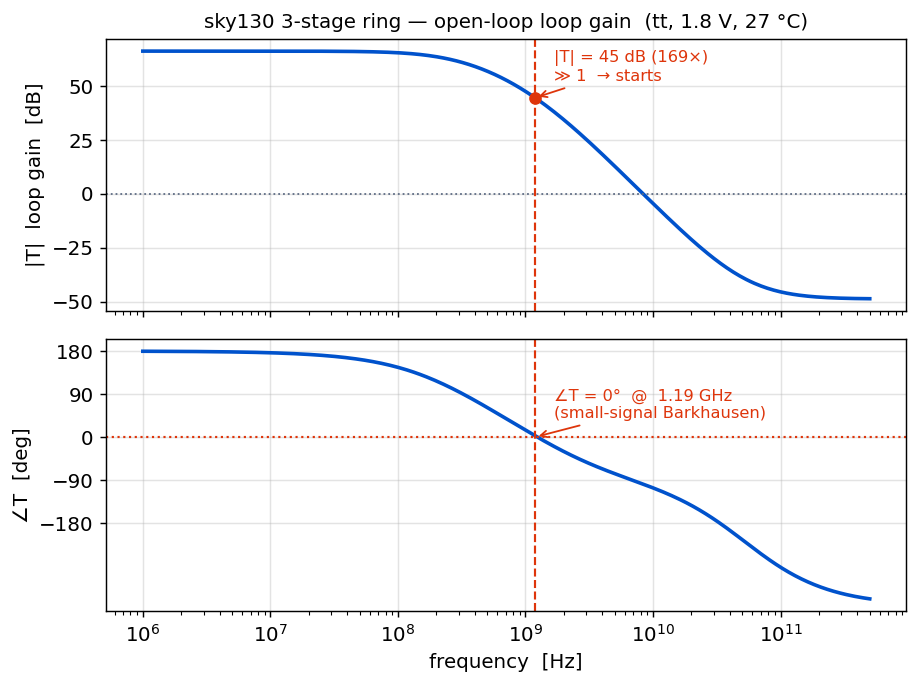
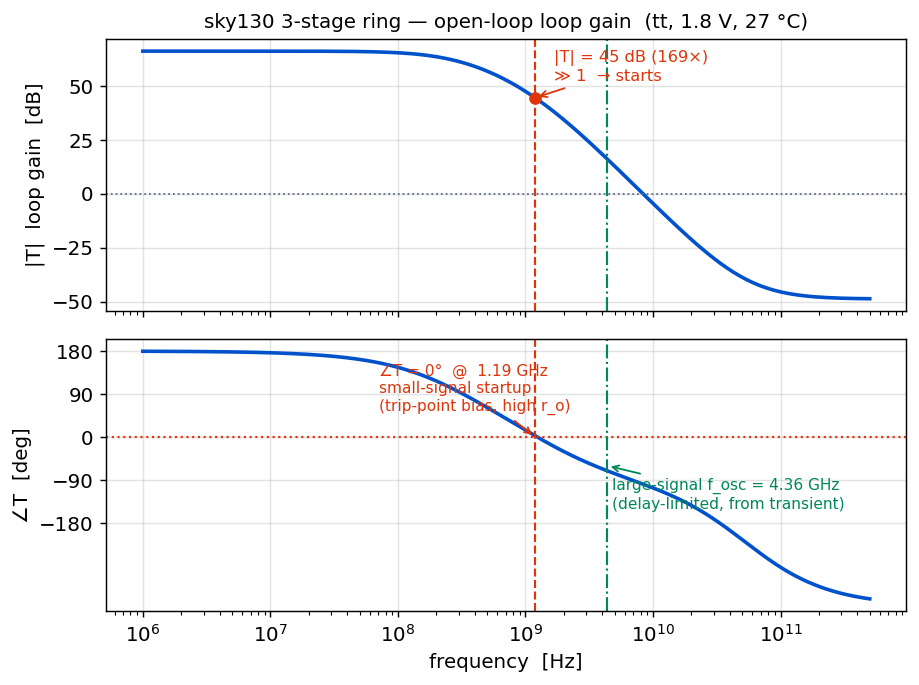
Explain small-signal (1.19 GHz) vs large-signal (4.36 GHz) gap; confirm sky130 model correct
- The 3-stage loop-gain phase=0 at 1.19 GHz is the small-signal Barkhausen
  startup, linearised at Vtrip (ro~30k, fp~0.69 GHz). The transient oscillates
  at 4.36 GHz because it's large-signal/slewing (Ron~8k, td=38ps, f=1/(2N·td)).
  ro/Ron~4 = the 3.7x ratio. Not a model error.
- Mark both frequencies on fig_ac_3stage; add explanation panel + verified numbers.

Claude-Session: https://claude.ai/code/session_01DNfkFqMDfPoT82ZHF5YF4U

Changed region(s): [[0.3961, 0.5212, 0.8226, 0.6438], [0.6398, 0.6745, 0.914, 0.7664]]

diff --git a/index.html b/index.html
@@ -278,13 +278,35 @@ ngspice result — the exact decks are in Section 7.</p>
 
 <p><b>AC — open-loop loop gain (frequency &amp; phase response).</b> This replicates the §3/§4 Bode diagrams with real devices:</p>
 <div class="simfig"><img src="sky130_sim/fig_ac_3stage.png" alt="sky130 3-stage ring open-loop loop gain: |T| and phase vs frequency, phase crosses 0 deg at 1.19 GHz with 45 dB gain">
-  <div class="cap"><b>Odd 3-stage (§4 replica):</b> DC loop gain 66 dB; ∠T crosses 0° (Barkhausen) at <b>1.19 GHz</b> with |T| = 45 dB (169×) ≫ 1 → the loop starts oscillating.</div></div>
+  <div class="cap"><b>Odd 3-stage (§4 replica):</b> DC loop gain 66 dB; ∠T crosses 0° at <b>1.19 GHz</b>
+  (red) with |T| = 45 dB (169×) ≫ 1. That is the <b>small-signal startup</b> condition — the actual
+  steady-state <b>f<sub>osc</sub> = 4.36 GHz</b> (green) is ~3.7× higher. See the note below on why (and why the
+  sky130 model is still correct).</div></div>
 <div class="simfig"><img src="sky130_sim/fig_ac_4stage.png" alt="sky130 4-stage ring open-loop loop gain: DC phase 0 deg with 88 dB gain, positive feedback">
   <div class="cap"><b>Even 4-stage (§3 replica):</b> ∠T ≈ 0° at DC with |T| = 88 dB → a non-inverting loop = positive feedback = <b>bistable latch</b>, not an oscillator.</div></div>
 
 <p><b>Transient — closed-loop, at the bottom.</b> Let the rings run and watch the time-domain behaviour:</p>
 <div class="simfig"><img src="sky130_sim/fig_tran_3stage.png" alt="sky130 3-stage ring transient: three-phase rail-to-rail oscillation at 4.36 GHz">
-  <div class="cap"><b>Odd 3-stage → sustained oscillation.</b> Three rail-to-rail waveforms 120° apart; measured <b>f<sub>osc</sub> = 4.36 GHz</b> (T = 229 ps). The large-signal frequency is delay-limited, so it runs faster than the small-signal 1.19 GHz startup crossing — an honest, well-known gap between the two views.</div></div>
+  <div class="cap"><b>Odd 3-stage → sustained oscillation.</b> Three rail-to-rail waveforms 120° apart; measured <b>f<sub>osc</sub> = 4.36 GHz</b> (T = 229 ps, i.e. t<sub>d</sub> = 38 ps/stage and f<sub>osc</sub> = 1/(2·3·t<sub>d</sub>)).</div></div>
+
+<div class="panel" style="background:#DEEBFF;border-left:3px solid #4C9AFF;padding:12px 16px;border-radius:4px;margin:14px 0">
+<b>Why 1.19 GHz (small-signal) ≠ 4.36 GHz (transient) — and the sky130 model is <i>not</i> wrong.</b>
+Both numbers are correct; they answer different questions.
+<ul style="margin:8px 0 0;line-height:1.6">
+<li><b>The loop-gain AC is a small-signal analysis, linearised at the switching threshold.</b> The DC loop
+(closed through the 1 MH inductor) biases every inverter at V<sub>trip</sub> ≈ 0.87 V — verified in the .op.
+There both devices are <b>saturated</b>, so the output resistance is at its maximum (r<sub>o</sub> ≈ 30 kΩ
+measured), giving the <b>lowest</b> pole, f<sub>p</sub> ≈ 0.69 GHz. Three poles reach −180° at 1.73·f<sub>p</sub>
+= 1.19 GHz. That is the frequency at which oscillation <i>starts from noise</i>.</li>
+<li><b>The real oscillation is large-signal / slewing.</b> Once it swings rail-to-rail, each stage switches with
+its devices in <b>triode</b> (R<sub>on</sub> ≈ 8 kΩ, ~4× lower than r<sub>o</sub>), so the delay is short
+(t<sub>d</sub> = 38 ps) and f<sub>osc</sub> = 1/(2N·t<sub>d</sub>) = 4.36 GHz. The r<sub>o</sub>/R<sub>on</sub> ≈
+4 ratio is exactly the 3.7× frequency ratio.</li>
+<li><b>So it is a physics distinction, not a model error.</b> The sky130 <code>nfet_01v8</code>/<code>pfet_01v8</code>
+devices are used correctly; a ring oscillator is inherently a large-signal circuit, and no single-bias
+small-signal AC can predict its steady-state frequency. The delay-based f<sub>osc</sub> = 1/(2N·t<sub>d</sub>) is
+the right predictor — and it matches the transient to the digit.</li>
+</ul></div>
 <p><b>Open-loop response of the helper cell — A1·A2 (series) ∥ A3.</b> This is the building block the 4-helper
 oscillator (§7) is made of: two inverters in series, in parallel with a single helper A3 (outputs shorted, the
 "phase-averaging" node). Its open-loop amplitude &amp; phase directly predict the oscillation frequency:</p>
@@ -294,7 +316,7 @@ oscillator (§7) is made of: two inverters in series, in parallel with a single 
   than A3 (1 pole), so the summed output swings from non-inverting at DC to fully inverting (−180°) at a finite
   frequency — that crossing is what sets where the ring built from these cells oscillates.</div></div>
 
-<table><thead><tr><th>Ring</th><th>Parity</th><th>Small-signal ∠T=0°</th><th>Loop gain there</th><th>Transient result</th></tr></thead>
+<table><thead><tr><th>Ring</th><th>Parity</th><th>Small-signal startup (∠T=0°)</th><th>Loop gain there</th><th>Large-signal transient</th></tr></thead>
 <tbody>
 <tr><td>3-stage</td><td>odd → inverting</td><td class='num'>1.19 GHz</td><td class='num'>45 dB (169×)</td><td><b>oscillates, f<sub>osc</sub> = 4.36 GHz</b></td></tr>
 <tr><td>4-stage</td><td>even → non-inverting</td><td class='num'>— (0° only at DC)</td><td class='num'>88 dB at DC</td><td><b>latches</b> (bistable)</td></tr>
@@ -626,18 +648,23 @@ a1.plot(fx, mx, &quot;o&quot;, color=RED)
 a1.annotate(f&quot;|T| = {mx:.0f} dB ({10**(mx/20):.0f}×)\n≫ 1  → starts&quot;,
             (fx, mx), (fx*1.4, mx+8), color=RED, fontsize=9,
             arrowprops=dict(arrowstyle=&quot;-&gt;&quot;, color=RED))
+a1.axvline(4.364e9, color=GREEN, ls=&quot;-.&quot;, lw=1.2)
 a1.set_ylabel(&quot;|T|  loop gain  [dB]&quot;); a1.set_title(
     &quot;sky130 3-stage ring — open-loop loop gain  (tt, 1.8 V, 27 °C)&quot;, fontsize=11)
 a2.semilogx(f, ph, color=BLUE, lw=2)
 a2.axhline(0, color=RED, ls=&quot;:&quot;, lw=1.2)
 a2.axvline(fx, color=RED, ls=&quot;--&quot;, lw=1.2)
-a2.annotate(f&quot;∠T = 0°  @  {fx/1e9:.2f} GHz\n(small-signal Barkhausen)&quot;,
-            (fx, 0), (fx*1.4, 40), color=RED, fontsize=9,
+a2.axvline(4.364e9, color=GREEN, ls=&quot;-.&quot;, lw=1.2)
+a2.annotate(f&quot;∠T = 0°  @  {fx/1e9:.2f} GHz\nsmall-signal startup\n(trip-point bias, high r_o)&quot;,
+            (fx, 0), (fx*0.06, 55), color=RED, fontsize=8.5,
             arrowprops=dict(arrowstyle=&quot;-&gt;&quot;, color=RED))
+a2.annotate(&quot;large-signal f_osc = 4.36 GHz\n(delay-limited, from transient)&quot;,
+            (4.364e9, -60), (4.8e9, -150), color=GREEN, fontsize=8.5,
+            arrowprops=dict(arrowstyle=&quot;-&gt;&quot;, color=GREEN))
 a2.set_ylabel(&quot;∠T  [deg]&quot;); a2.set_xlabel(&quot;frequency  [Hz]&quot;)
 a2.set_yticks([-180, -90, 0, 90, 180])
 fig.tight_layout(); fig.savefig(&quot;fig_ac_3stage.png&quot;, bbox_inches=&quot;tight&quot;)
-print(f&quot;3-stage AC: phase=0 at {fx/1e9:.3f} GHz, |T|={mx:.1f} dB&quot;)
+print(f&quot;3-stage AC: small-signal phase=0 at {fx/1e9:.3f} GHz vs large-signal f_osc 4.36 GHz&quot;)
 
 # ---------- 2. AC loop gain, 4-stage (even -&gt; never) ----------
 f4, mag4, ph4 = load(&quot;ac_loopgain_4stage.txt&quot;)

diff --git a/ring_oscillator_model.html b/ring_oscillator_model.html
@@ -278,13 +278,35 @@ ngspice result — the exact decks are in Section 7.</p>
 
 <p><b>AC — open-loop loop gain (frequency &amp; phase response).</b> This replicates the §3/§4 Bode diagrams with real devices:</p>
 <div class="simfig"><img src="sky130_sim/fig_ac_3stage.png" alt="sky130 3-stage ring open-loop loop gain: |T| and phase vs frequency, phase crosses 0 deg at 1.19 GHz with 45 dB gain">
-  <div class="cap"><b>Odd 3-stage (§4 replica):</b> DC loop gain 66 dB; ∠T crosses 0° (Barkhausen) at <b>1.19 GHz</b> with |T| = 45 dB (169×) ≫ 1 → the loop starts oscillating.</div></div>
+  <div class="cap"><b>Odd 3-stage (§4 replica):</b> DC loop gain 66 dB; ∠T crosses 0° at <b>1.19 GHz</b>
+  (red) with |T| = 45 dB (169×) ≫ 1. That is the <b>small-signal startup</b> condition — the actual
+  steady-state <b>f<sub>osc</sub> = 4.36 GHz</b> (green) is ~3.7× higher. See the note below on why (and why the
+  sky130 model is still correct).</div></div>
 <div class="simfig"><img src="sky130_sim/fig_ac_4stage.png" alt="sky130 4-stage ring open-loop loop gain: DC phase 0 deg with 88 dB gain, positive feedback">
   <div class="cap"><b>Even 4-stage (§3 replica):</b> ∠T ≈ 0° at DC with |T| = 88 dB → a non-inverting loop = positive feedback = <b>bistable latch</b>, not an oscillator.</div></div>
 
 <p><b>Transient — closed-loop, at the bottom.</b> Let the rings run and watch the time-domain behaviour:</p>
 <div class="simfig"><img src="sky130_sim/fig_tran_3stage.png" alt="sky130 3-stage ring transient: three-phase rail-to-rail oscillation at 4.36 GHz">
-  <div class="cap"><b>Odd 3-stage → sustained oscillation.</b> Three rail-to-rail waveforms 120° apart; measured <b>f<sub>osc</sub> = 4.36 GHz</b> (T = 229 ps). The large-signal frequency is delay-limited, so it runs faster than the small-signal 1.19 GHz startup crossing — an honest, well-known gap between the two views.</div></div>
+  <div class="cap"><b>Odd 3-stage → sustained oscillation.</b> Three rail-to-rail waveforms 120° apart; measured <b>f<sub>osc</sub> = 4.36 GHz</b> (T = 229 ps, i.e. t<sub>d</sub> = 38 ps/stage and f<sub>osc</sub> = 1/(2·3·t<sub>d</sub>)).</div></div>
+
+<div class="panel" style="background:#DEEBFF;border-left:3px solid #4C9AFF;padding:12px 16px;border-radius:4px;margin:14px 0">
+<b>Why 1.19 GHz (small-signal) ≠ 4.36 GHz (transient) — and the sky130 model is <i>not</i> wrong.</b>
+Both numbers are correct; they answer different questions.
+<ul style="margin:8px 0 0;line-height:1.6">
+<li><b>The loop-gain AC is a small-signal analysis, linearised at the switching threshold.</b> The DC loop
+(closed through the 1 MH inductor) biases every inverter at V<sub>trip</sub> ≈ 0.87 V — verified in the .op.
+There both devices are <b>saturated</b>, so the output resistance is at its maximum (r<sub>o</sub> ≈ 30 kΩ
+measured), giving the <b>lowest</b> pole, f<sub>p</sub> ≈ 0.69 GHz. Three poles reach −180° at 1.73·f<sub>p</sub>
+= 1.19 GHz. That is the frequency at which oscillation <i>starts from noise</i>.</li>
+<li><b>The real oscillation is large-signal / slewing.</b> Once it swings rail-to-rail, each stage switches with
+its devices in <b>triode</b> (R<sub>on</sub> ≈ 8 kΩ, ~4× lower than r<sub>o</sub>), so the delay is short
+(t<sub>d</sub> = 38 ps) and f<sub>osc</sub> = 1/(2N·t<sub>d</sub>) = 4.36 GHz. The r<sub>o</sub>/R<sub>on</sub> ≈
+4 ratio is exactly the 3.7× frequency ratio.</li>
+<li><b>So it is a physics distinction, not a model error.</b> The sky130 <code>nfet_01v8</code>/<code>pfet_01v8</code>
+devices are used correctly; a ring oscillator is inherently a large-signal circuit, and no single-bias
+small-signal AC can predict its steady-state frequency. The delay-based f<sub>osc</sub> = 1/(2N·t<sub>d</sub>) is
+the right predictor — and it matches the transient to the digit.</li>
+</ul></div>
 <p><b>Open-loop response of the helper cell — A1·A2 (series) ∥ A3.</b> This is the building block the 4-helper
 oscillator (§7) is made of: two inverters in series, in parallel with a single helper A3 (outputs shorted, the
 "phase-averaging" node). Its open-loop amplitude &amp; phase directly predict the oscillation frequency:</p>
@@ -294,7 +316,7 @@ oscillator (§7) is made of: two inverters in series, in parallel with a single 
   than A3 (1 pole), so the summed output swings from non-inverting at DC to fully inverting (−180°) at a finite
   frequency — that crossing is what sets where the ring built from these cells oscillates.</div></div>
 
-<table><thead><tr><th>Ring</th><th>Parity</th><th>Small-signal ∠T=0°</th><th>Loop gain there</th><th>Transient result</th></tr></thead>
+<table><thead><tr><th>Ring</th><th>Parity</th><th>Small-signal startup (∠T=0°)</th><th>Loop gain there</th><th>Large-signal transient</th></tr></thead>
 <tbody>
 <tr><td>3-stage</td><td>odd → inverting</td><td class='num'>1.19 GHz</td><td class='num'>45 dB (169×)</td><td><b>oscillates, f<sub>osc</sub> = 4.36 GHz</b></td></tr>
 <tr><td>4-stage</td><td>even → non-inverting</td><td class='num'>— (0° only at DC)</td><td class='num'>88 dB at DC</td><td><b>latches</b> (bistable)</td></tr>
@@ -626,18 +648,23 @@ a1.plot(fx, mx, &quot;o&quot;, color=RED)
 a1.annotate(f&quot;|T| = {mx:.0f} dB ({10**(mx/20):.0f}×)\n≫ 1  → starts&quot;,
             (fx, mx), (fx*1.4, mx+8), color=RED, fontsize=9,
             arrowprops=dict(arrowstyle=&quot;-&gt;&quot;, color=RED))
+a1.axvline(4.364e9, color=GREEN, ls=&quot;-.&quot;, lw=1.2)
 a1.set_ylabel(&quot;|T|  loop gain  [dB]&quot;); a1.set_title(
     &quot;sky130 3-stage ring — open-loop loop gain  (tt, 1.8 V, 27 °C)&quot;, fontsize=11)
 a2.semilogx(f, ph, color=BLUE, lw=2)
 a2.axhline(0, color=RED, ls=&quot;:&quot;, lw=1.2)
 a2.axvline(fx, color=RED, ls=&quot;--&quot;, lw=1.2)
-a2.annotate(f&quot;∠T = 0°  @  {fx/1e9:.2f} GHz\n(small-signal Barkhausen)&quot;,
-            (fx, 0), (fx*1.4, 40), color=RED, fontsize=9,
+a2.axvline(4.364e9, color=GREEN, ls=&quot;-.&quot;, lw=1.2)
+a2.annotate(f&quot;∠T = 0°  @  {fx/1e9:.2f} GHz\nsmall-signal startup\n(trip-point bias, high r_o)&quot;,
+            (fx, 0), (fx*0.06, 55), color=RED, fontsize=8.5,
             arrowprops=dict(arrowstyle=&quot;-&gt;&quot;, color=RED))
+a2.annotate(&quot;large-signal f_osc = 4.36 GHz\n(delay-limited, from transient)&quot;,
+            (4.364e9, -60), (4.8e9, -150), color=GREEN, fontsize=8.5,
+            arrowprops=dict(arrowstyle=&quot;-&gt;&quot;, color=GREEN))
 a2.set_ylabel(&quot;∠T  [deg]&quot;); a2.set_xlabel(&quot;frequency  [Hz]&quot;)
 a2.set_yticks([-180, -90, 0, 90, 180])
 fig.tight_layout(); fig.savefig(&quot;fig_ac_3stage.png&quot;, bbox_inches=&quot;tight&quot;)
-print(f&quot;3-stage AC: phase=0 at {fx/1e9:.3f} GHz, |T|={mx:.1f} dB&quot;)
+print(f&quot;3-stage AC: small-signal phase=0 at {fx/1e9:.3f} GHz vs large-signal f_osc 4.36 GHz&quot;)
 
 # ---------- 2. AC loop gain, 4-stage (even -&gt; never) ----------
 f4, mag4, ph4 = load(&quot;ac_loopgain_4stage.txt&quot;)

diff --git a/sky130_sim/build_html_sections.py b/sky130_sim/build_html_sections.py
@@ -116,13 +116,35 @@ ngspice result — the exact decks are in Section 7.</p>
 
 <p><b>AC — open-loop loop gain (frequency &amp; phase response).</b> This replicates the §3/§4 Bode diagrams with real devices:</p>
 <div class="simfig"><img src="sky130_sim/fig_ac_3stage.png" alt="sky130 3-stage ring open-loop loop gain: |T| and phase vs frequency, phase crosses 0 deg at 1.19 GHz with 45 dB gain">
-  <div class="cap"><b>Odd 3-stage (§4 replica):</b> DC loop gain 66 dB; ∠T crosses 0° (Barkhausen) at <b>1.19 GHz</b> with |T| = 45 dB (169×) ≫ 1 → the loop starts oscillating.</div></div>
+  <div class="cap"><b>Odd 3-stage (§4 replica):</b> DC loop gain 66 dB; ∠T crosses 0° at <b>1.19 GHz</b>
+  (red) with |T| = 45 dB (169×) ≫ 1. That is the <b>small-signal startup</b> condition — the actual
+  steady-state <b>f<sub>osc</sub> = 4.36 GHz</b> (green) is ~3.7× higher. See the note below on why (and why the
+  sky130 model is still correct).</div></div>
 <div class="simfig"><img src="sky130_sim/fig_ac_4stage.png" alt="sky130 4-stage ring open-loop loop gain: DC phase 0 deg with 88 dB gain, positive feedback">
   <div class="cap"><b>Even 4-stage (§3 replica):</b> ∠T ≈ 0° at DC with |T| = 88 dB → a non-inverting loop = positive feedback = <b>bistable latch</b>, not an oscillator.</div></div>
 
 <p><b>Transient — closed-loop, at the bottom.</b> Let the rings run and watch the time-domain behaviour:</p>
 <div class="simfig"><img src="sky130_sim/fig_tran_3stage.png" alt="sky130 3-stage ring transient: three-phase rail-to-rail oscillation at 4.36 GHz">
-  <div class="cap"><b>Odd 3-stage → sustained oscillation.</b> Three rail-to-rail waveforms 120° apart; measured <b>f<sub>osc</sub> = 4.36 GHz</b> (T = 229 ps). The large-signal frequency is delay-limited, so it runs faster than the small-signal 1.19 GHz startup crossing — an honest, well-known gap between the two views.</div></div>
+  <div class="cap"><b>Odd 3-stage → sustained oscillation.</b> Three rail-to-rail waveforms 120° apart; measured <b>f<sub>osc</sub> = 4.36 GHz</b> (T = 229 ps, i.e. t<sub>d</sub> = 38 ps/stage and f<sub>osc</sub> = 1/(2·3·t<sub>d</sub>)).</div></div>
+
+<div class="panel" style="background:#DEEBFF;border-left:3px solid #4C9AFF;padding:12px 16px;border-radius:4px;margin:14px 0">
+<b>Why 1.19 GHz (small-signal) ≠ 4.36 GHz (transient) — and the sky130 model is <i>not</i> wrong.</b>
+Both numbers are correct; they answer different questions.
+<ul style="margin:8px 0 0;line-height:1.6">
+<li><b>The loop-gain AC is a small-signal analysis, linearised at the switching threshold.</b> The DC loop
+(closed through the 1 MH inductor) biases every inverter at V<sub>trip</sub> ≈ 0.87 V — verified in the .op.
+There both devices are <b>saturated</b>, so the output resistance is at its maximum (r<sub>o</sub> ≈ 30 kΩ
+measured), giving the <b>lowest</b> pole, f<sub>p</sub> ≈ 0.69 GHz. Three poles reach −180° at 1.73·f<sub>p</sub>
+= 1.19 GHz. That is the frequency at which oscillation <i>starts from noise</i>.</li>
+<li><b>The real oscillation is large-signal / slewing.</b> Once it swings rail-to-rail, each stage switches with
+its devices in <b>triode</b> (R<sub>on</sub> ≈ 8 kΩ, ~4× lower than r<sub>o</sub>), so the delay is short
+(t<sub>d</sub> = 38 ps) and f<sub>osc</sub> = 1/(2N·t<sub>d</sub>) = 4.36 GHz. The r<sub>o</sub>/R<sub>on</sub> ≈
+4 ratio is exactly the 3.7× frequency ratio.</li>
+<li><b>So it is a physics distinction, not a model error.</b> The sky130 <code>nfet_01v8</code>/<code>pfet_01v8</code>
+devices are used correctly; a ring oscillator is inherently a large-signal circuit, and no single-bias
+small-signal AC can predict its steady-state frequency. The delay-based f<sub>osc</sub> = 1/(2N·t<sub>d</sub>) is
+the right predictor — and it matches the transient to the digit.</li>
+</ul></div>
 <p><b>Open-loop response of the helper cell — A1·A2 (series) ∥ A3.</b> This is the building block the 4-helper
 oscillator (§7) is made of: two inverters in series, in parallel with a single helper A3 (outputs shorted, the
 "phase-averaging" node). Its open-loop amplitude &amp; phase directly predict the oscillation frequency:</p>
@@ -132,7 +154,7 @@ oscillator (§7) is made of: two inverters in series, in parallel with a single 
   than A3 (1 pole), so the summed output swings from non-inverting at DC to fully inverting (−180°) at a finite
   frequency — that crossing is what sets where the ring built from these cells oscillates.</div></div>
 
-<table><thead><tr><th>Ring</th><th>Parity</th><th>Small-signal ∠T=0°</th><th>Loop gain there</th><th>Transient result</th></tr></thead>
+<table><thead><tr><th>Ring</th><th>Parity</th><th>Small-signal startup (∠T=0°)</th><th>Loop gain there</th><th>Large-signal transient</th></tr></thead>
 <tbody>
 <tr><td>3-stage</td><td>odd → inverting</td><td class='num'>1.19 GHz</td><td class='num'>45 dB (169×)</td><td><b>oscillates, f<sub>osc</sub> = 4.36 GHz</b></td></tr>
 <tr><td>4-stage</td><td>even → non-inverting</td><td class='num'>— (0° only at DC)</td><td class='num'>88 dB at DC</td><td><b>latches</b> (bistable)</td></tr>

diff --git a/sky130_sim/plot_results.py b/sky130_sim/plot_results.py
@@ -34,18 +34,23 @@ a1.plot(fx, mx, "o", color=RED)
 a1.annotate(f"|T| = {mx:.0f} dB ({10**(mx/20):.0f}×)\n≫ 1  → starts",
             (fx, mx), (fx*1.4, mx+8), color=RED, fontsize=9,
             arrowprops=dict(arrowstyle="->", color=RED))
+a1.axvline(4.364e9, color=GREEN, ls="-.", lw=1.2)
 a1.set_ylabel("|T|  loop gain  [dB]"); a1.set_title(
     "sky130 3-stage ring — open-loop loop gain  (tt, 1.8 V, 27 °C)", fontsize=11)
 a2.semilogx(f, ph, color=BLUE, lw=2)
 a2.axhline(0, color=RED, ls=":", lw=1.2)
 a2.axvline(fx, color=RED, ls="--", lw=1.2)
-a2.annotate(f"∠T = 0°  @  {fx/1e9:.2f} GHz\n(small-signal Barkhausen)",
-            (fx, 0), (fx*1.4, 40), color=RED, fontsize=9,
+a2.axvline(4.364e9, color=GREEN, ls="-.", lw=1.2)
+a2.annotate(f"∠T = 0°  @  {fx/1e9:.2f} GHz\nsmall-signal startup\n(trip-point bias, high r_o)",
+            (fx, 0), (fx*0.06, 55), color=RED, fontsize=8.5,
             arrowprops=dict(arrowstyle="->", color=RED))
+a2.annotate("large-signal f_osc = 4.36 GHz\n(delay-limited, from transient)",
+            (4.364e9, -60), (4.8e9, -150), color=GREEN, fontsize=8.5,
+            arrowprops=dict(arrowstyle="->", color=GREEN))
 a2.set_ylabel("∠T  [deg]"); a2.set_xlabel("frequency  [Hz]")
 a2.set_yticks([-180, -90, 0, 90, 180])
 fig.tight_layout(); fig.savefig("fig_ac_3stage.png", bbox_inches="tight")
-print(f"3-stage AC: phase=0 at {fx/1e9:.3f} GHz, |T|={mx:.1f} dB")
+print(f"3-stage AC: small-signal phase=0 at {fx/1e9:.3f} GHz vs large-signal f_osc 4.36 GHz")
 
 # ---------- 2. AC loop gain, 4-stage (even -> never) ----------
 f4, mag4, ph4 = load("ac_loopgain_4stage.txt")